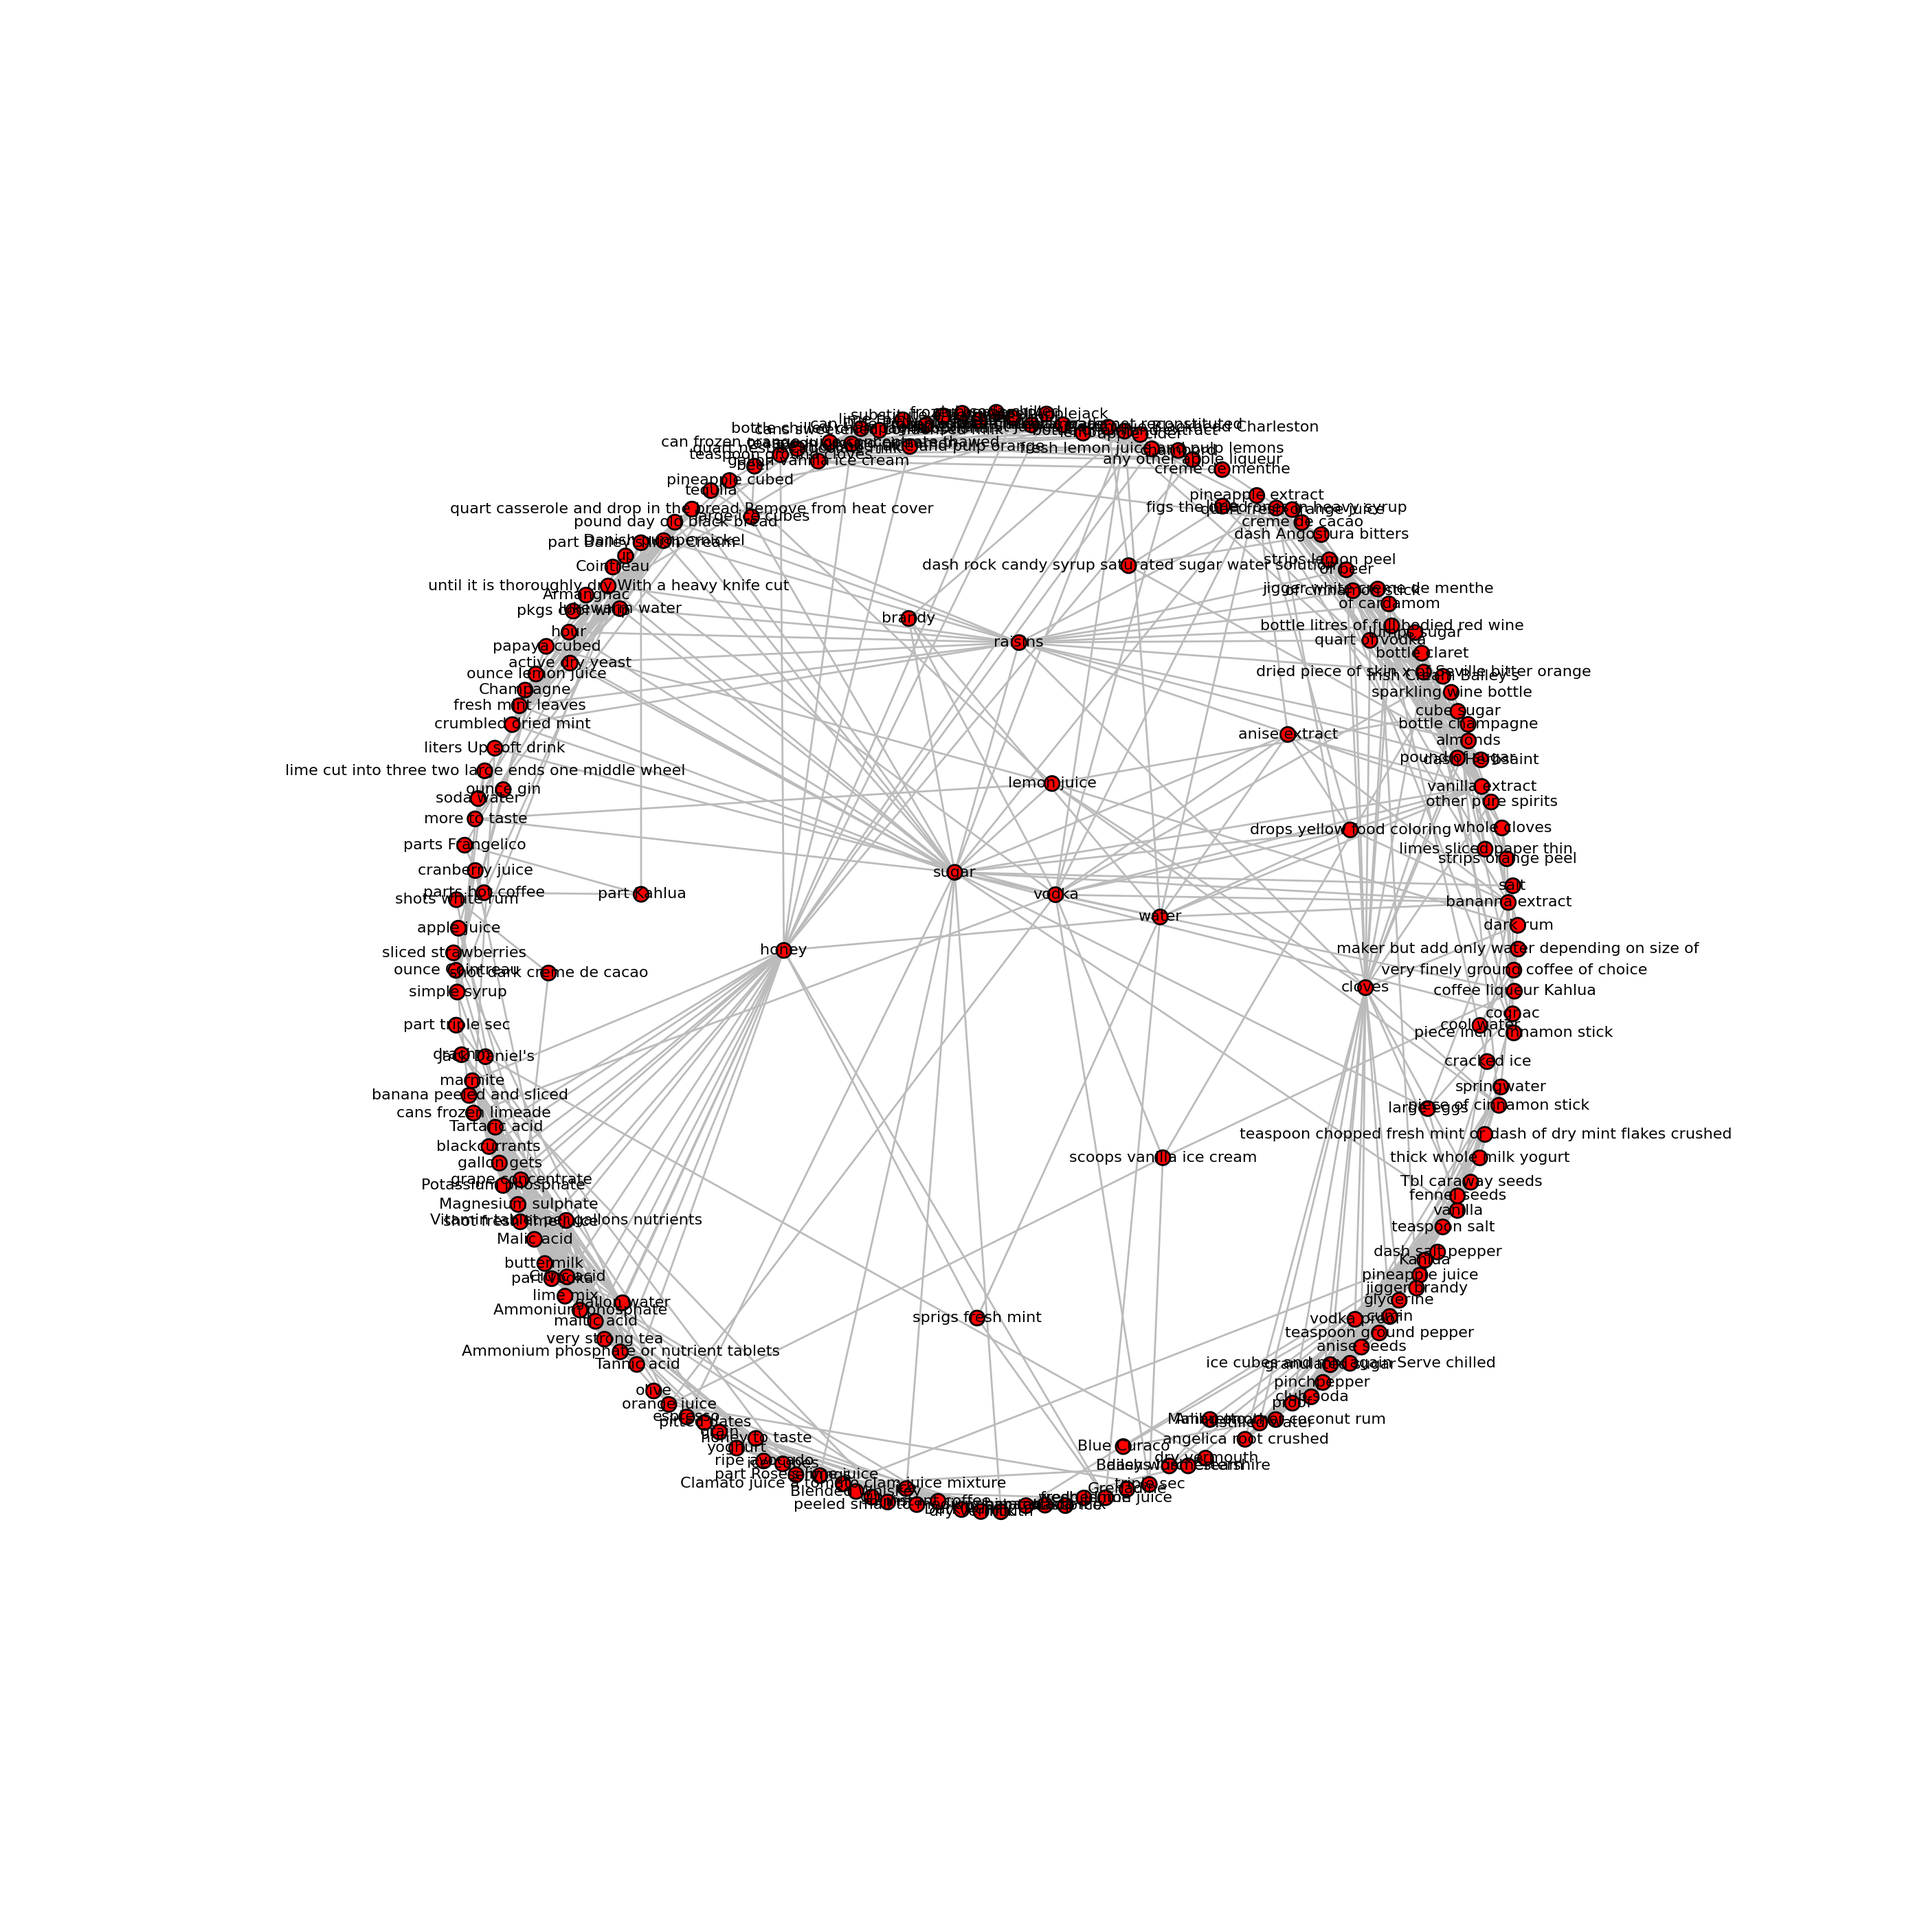
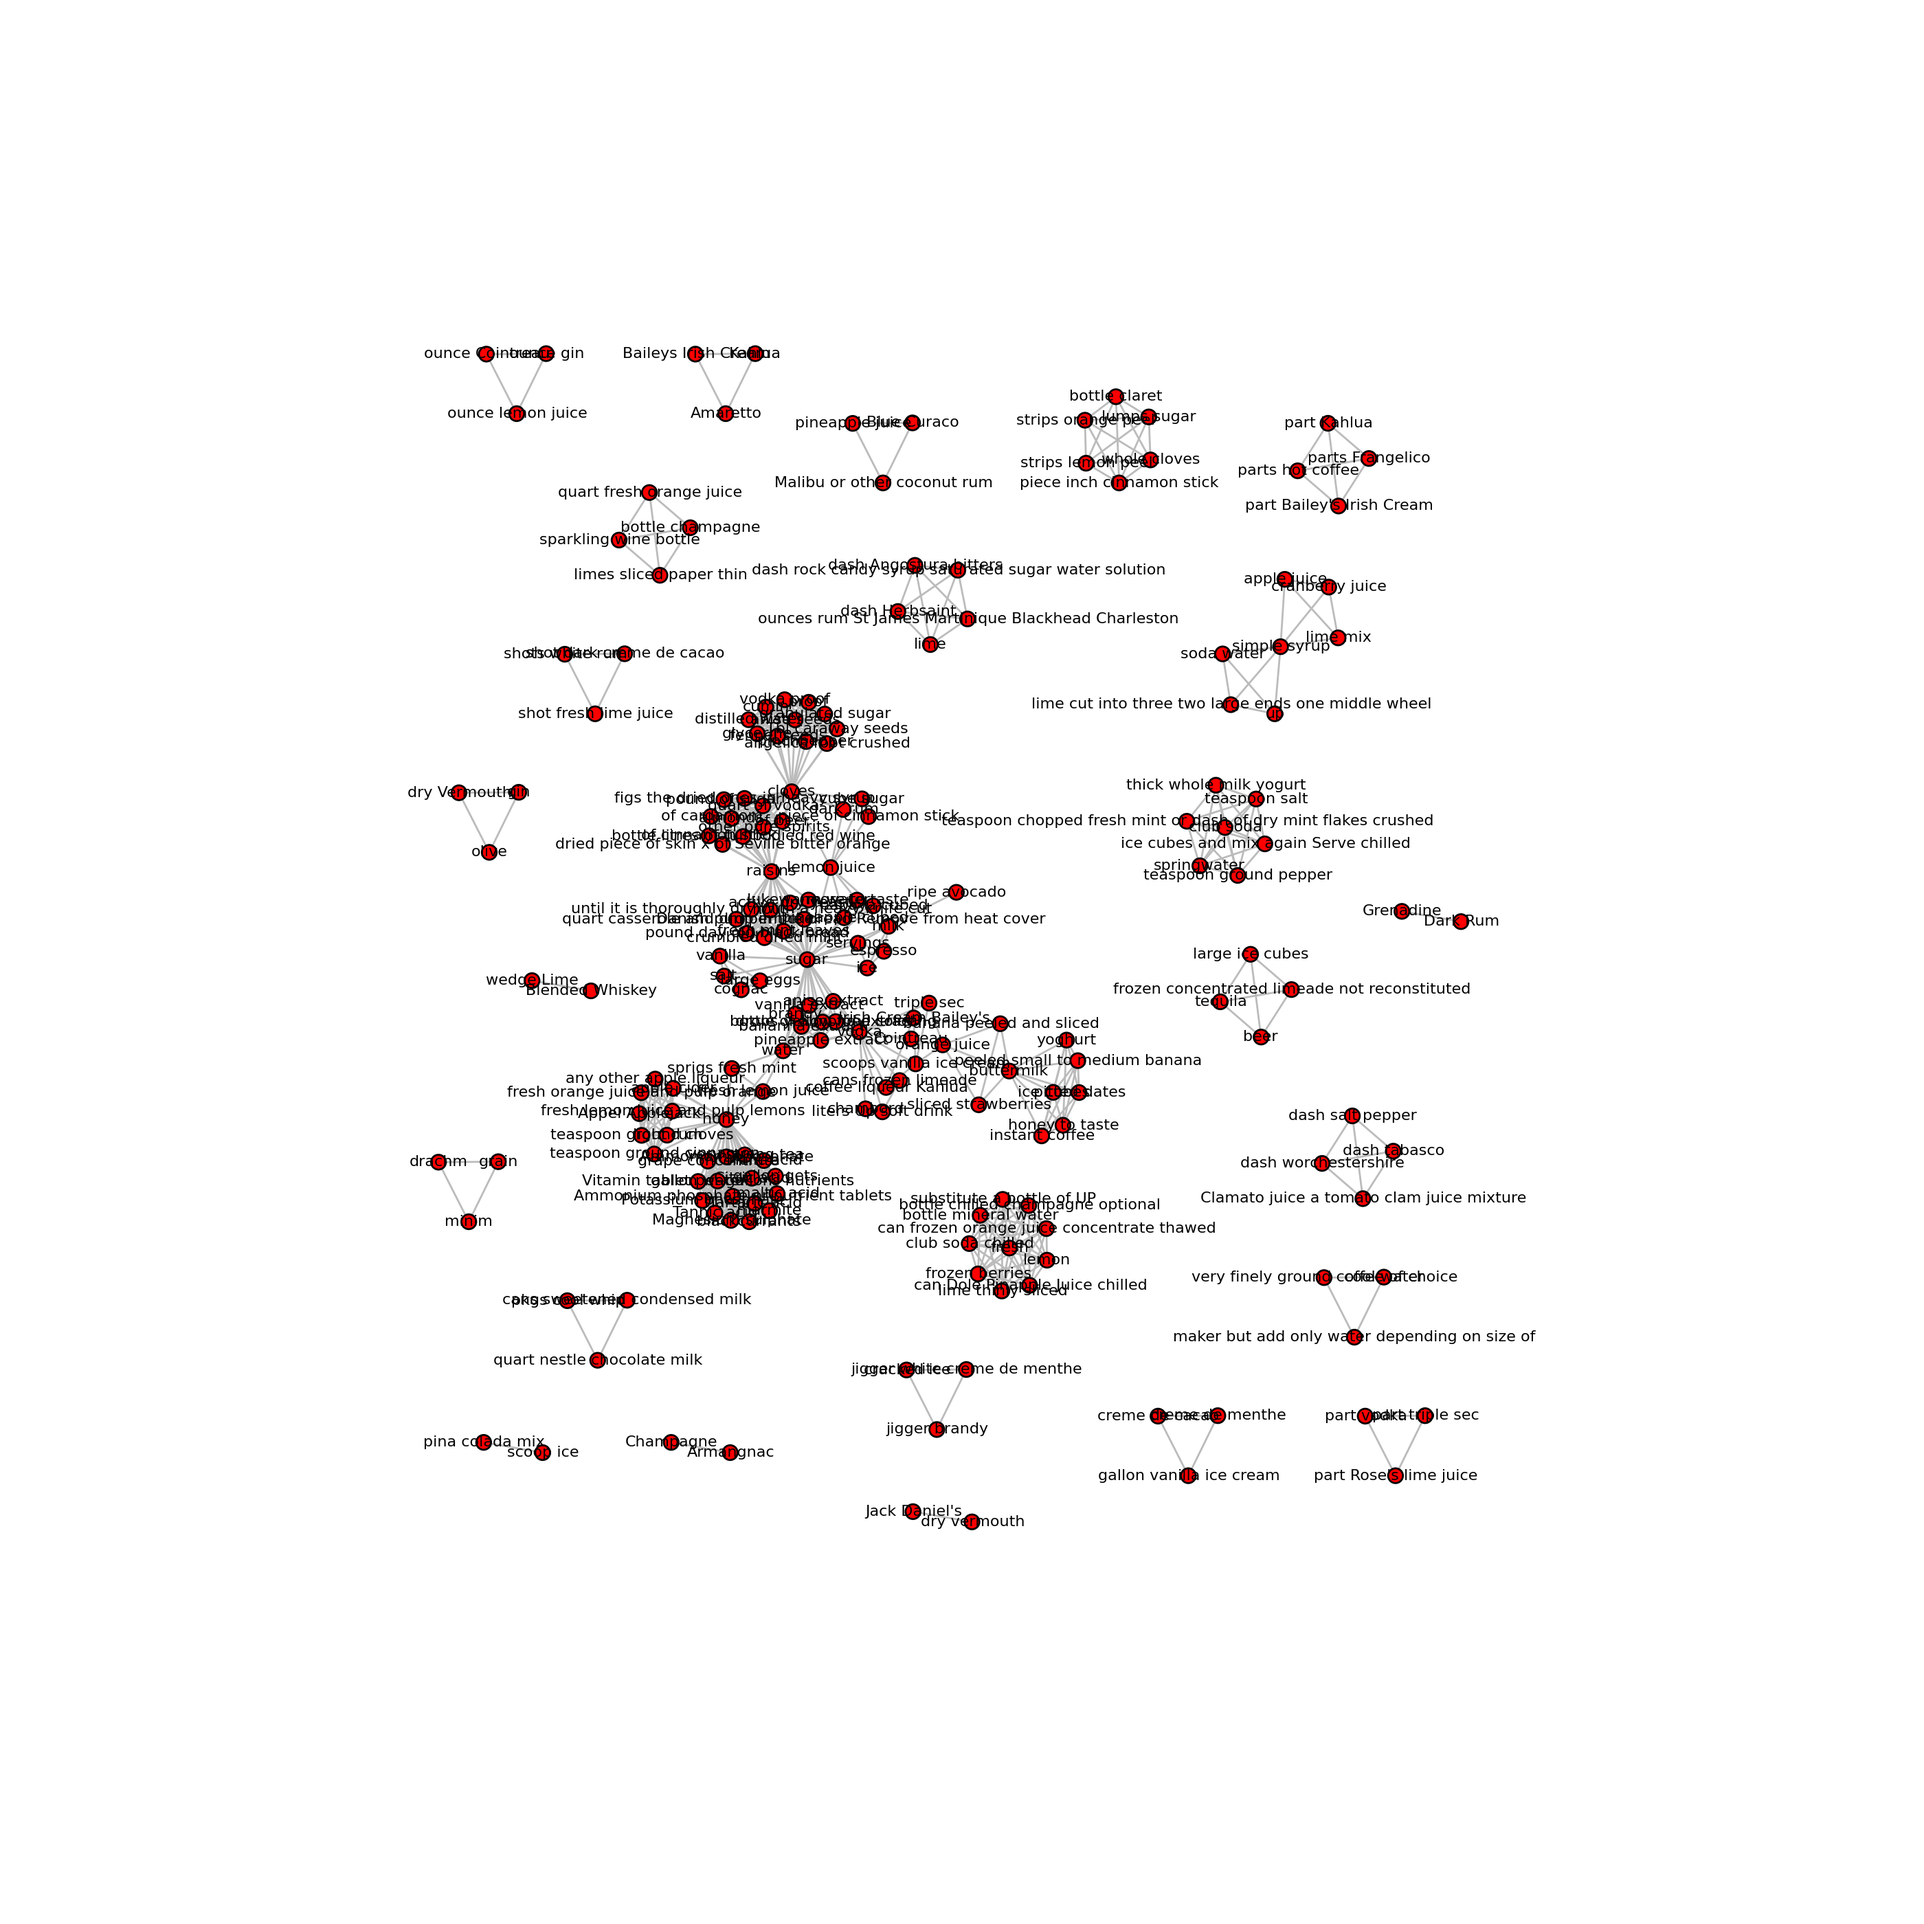
Now using draw_graphviz

Changed region(s): [[0.2175, 0.1554, 0.8389, 0.8079], [0.2486, 0.1554, 0.2796, 0.2175], [0.2486, 0.7457, 0.2796, 0.7768]]

diff --git a/backend/drawer.py b/backend/drawer.py
@@ -22,9 +22,12 @@ with open(sample_file, 'r') as fd:
 plt.figure(1, figsize=(14, 14))
 plt.axis('off') 
 
-pos = nx.spring_layout(graph)
-nx.draw_networkx_nodes(graph, pos, node_size=60)
-nx.draw_networkx_edges(graph, pos, edge_color='#bbbbbb')
-nx.draw_networkx_labels(graph, pos, font_size=8)
+nx.draw_graphviz(
+	graph,
+	node_size=60,
+	edge_color='#bbbbbb',
+	font_size=8,
+	with_labels=True
+)
 
 plt.savefig(img_file, dpi=200)
